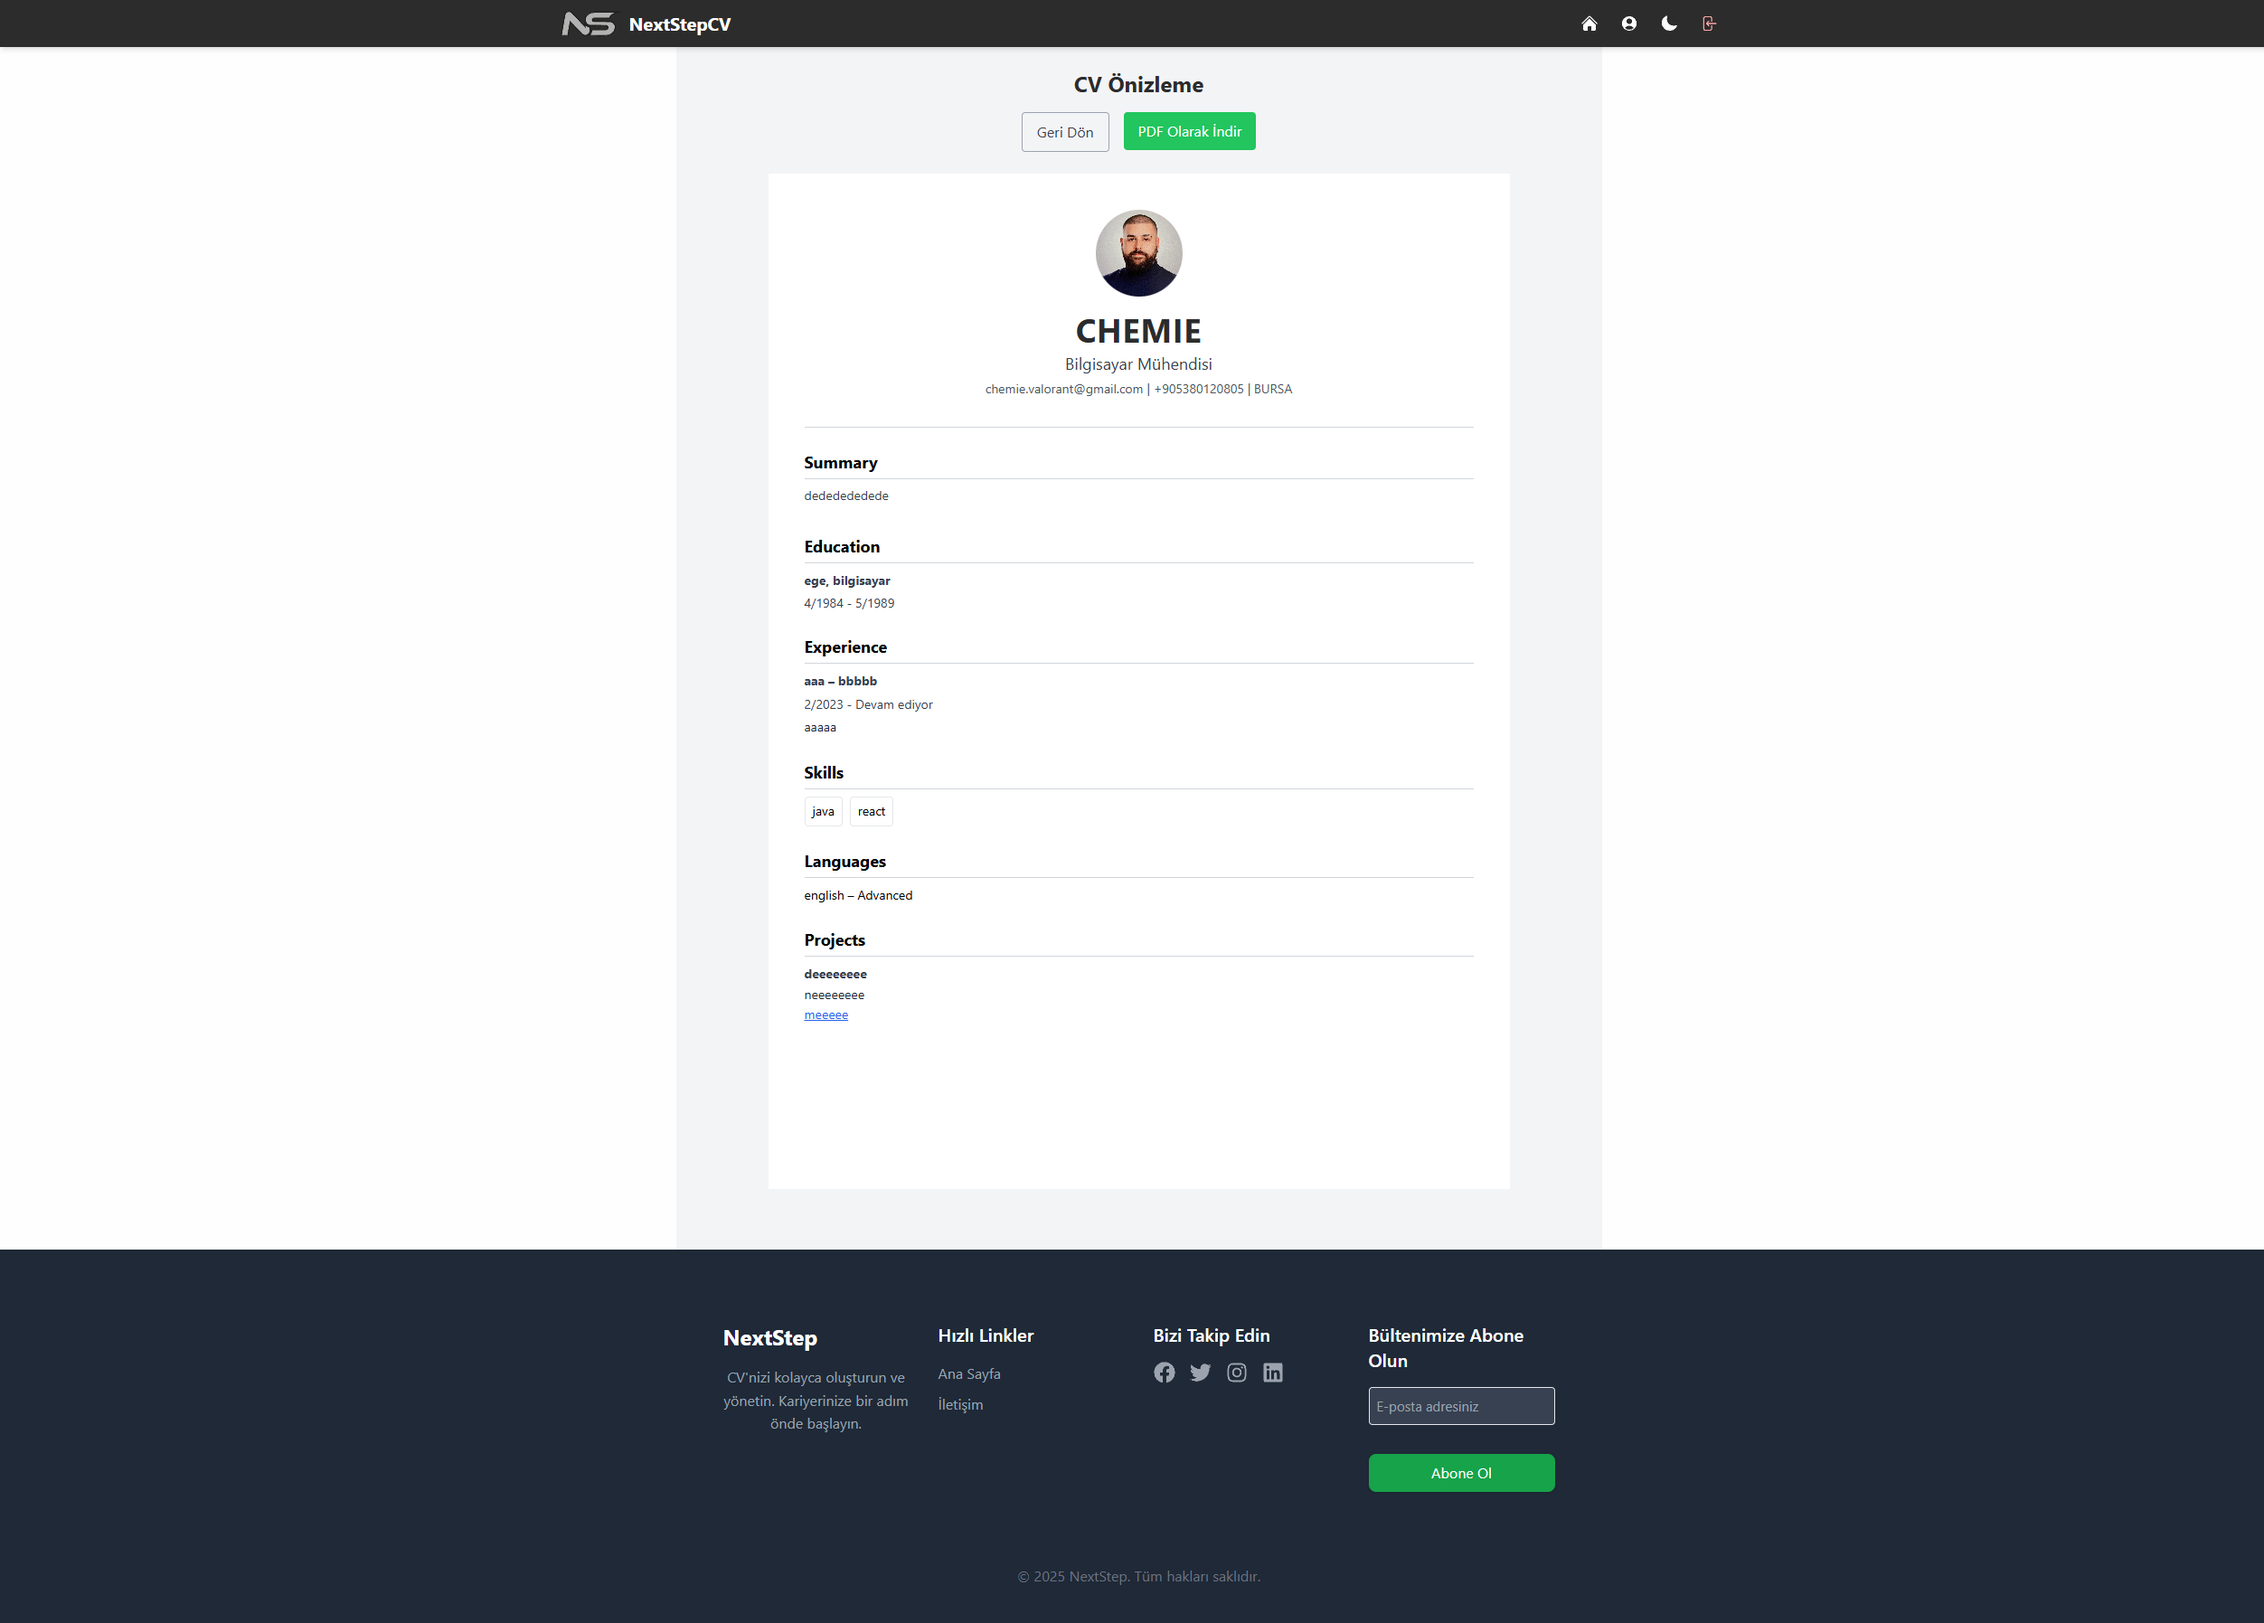
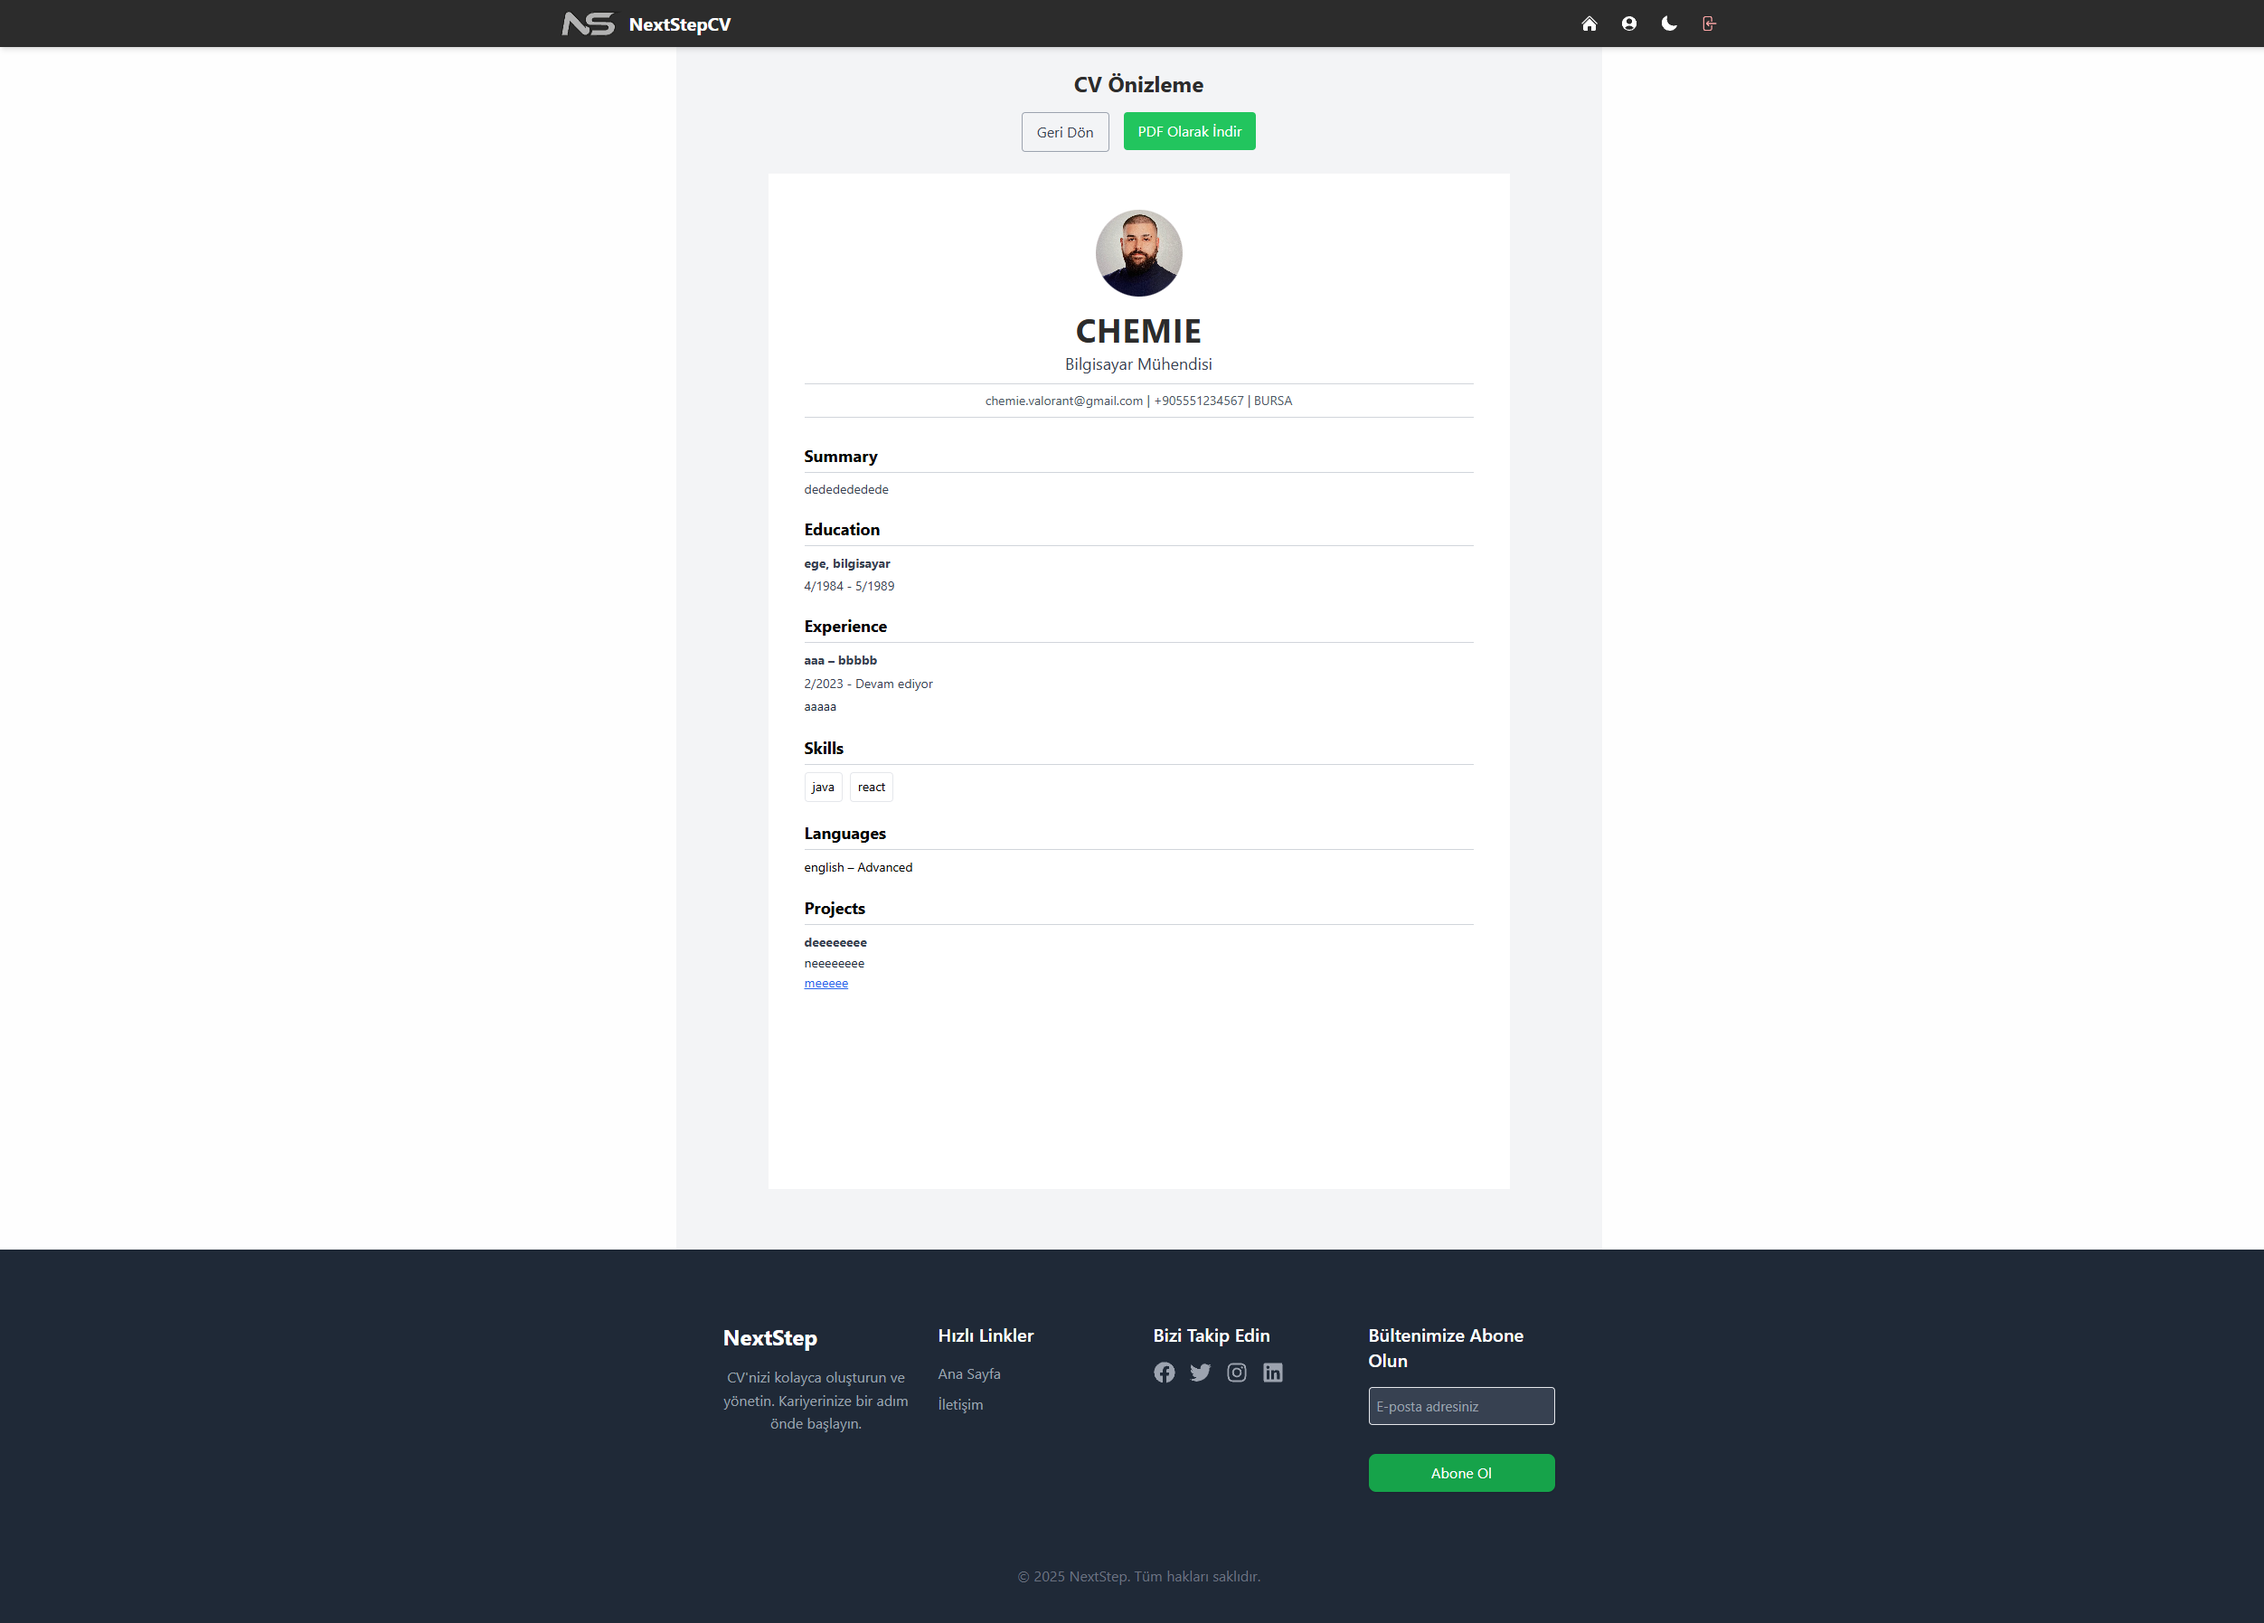
template simple ui update and readme update

Changed region(s): [[0.3427, 0.2808, 0.405, 0.624], [0.4361, 0.2184, 0.5607, 0.2496]]

diff --git a/src/components/templates/TemplateSimple.jsx b/src/components/templates/TemplateSimple.jsx
@@ -17,23 +17,24 @@ const TemplateSimple = forwardRef(({ data }, ref) => {
       <div className="text-center mb-7">
         <h1 className="text-4xl font-bold tracking-wide mb-1 uppercase ">{data.name}</h1>
         <p className="text-lg text-gray-700 mb-1">{data.title}</p>
-        <p className="text-gray-600 text-sm">
+        <hr className="border-t border-gray-300 my-2" />
+        <p className="text-gray-600 text-sm mb-0">
           {data.email} | {data.phone} | {data.city}
         </p>
+        <hr className="border-t border-gray-300 my-2" />
       </div>
-      <hr className="border-t border-gray-300 my-6" />
 
       {/* Summary */}
       {data.summary && (
-        <div className="mb-6">
+        <div className="mb-5">
           <h2 className="font-bold text-lg border-b border-gray-300 pb-1 mb-2 text-left">Summary</h2>
-          <p className="text-sm text-left text-gray-700">{data.summary}</p>
+          <p className="text-sm text-left text-gray-700 mb-4">{data.summary}</p>
         </div>
       )}
 
       {/* Education */}
       {data.education?.length > 0 && (
-        <div className="mb-6">
+        <div className="mb-5">
           <h2 className="font-bold text-lg border-b border-gray-300 pb-1 mb-2">Education</h2>
           {data.education.map((edu, idx) => (
             <div key={idx} className="mb-2">
@@ -50,7 +51,7 @@ const TemplateSimple = forwardRef(({ data }, ref) => {
 
       {/* Experience */}
       {data.experience?.length > 0 && (
-        <div className="mb-6">
+        <div className="mb-5">
           <h2 className="font-bold text-lg border-b border-gray-300 pb-1 mb-2">Experience</h2>
           {data.experience.map((exp, idx) => (
             <div key={idx} className="mb-2">
@@ -68,7 +69,7 @@ const TemplateSimple = forwardRef(({ data }, ref) => {
 
       {/* Skills */}
       {data.skills?.length > 0 && (
-        <div className="mb-6">
+        <div className="mb-5">
           <h2 className="font-bold text-lg border-b border-gray-300 pb-1 mb-2">Skills</h2>
           <ul className="flex flex-wrap gap-2">
             {data.skills.map((skill, idx) => (
@@ -82,7 +83,7 @@ const TemplateSimple = forwardRef(({ data }, ref) => {
 
       {/* Languages */}
       {data.languages?.length > 0 && (
-        <div className="mb-6">
+        <div className="mb-5">
           <h2 className="font-bold text-lg border-b border-gray-300 pb-1 mb-2">Languages</h2>
           <ul>
             {data.languages.map((lang, idx) => (
@@ -96,7 +97,7 @@ const TemplateSimple = forwardRef(({ data }, ref) => {
 
       {/* Projects */}
       {data.projects?.length > 0 && (
-        <div>
+        <div className="mb-5">
           <h2 className="font-bold text-lg border-b border-gray-300 pb-1 mb-2">Projects</h2>
           {data.projects.map((p, i) => (
             <div key={i} className="mb-2">

diff --git a/src/components/pdf/CvPdf.jsx b/src/components/pdf/CvPdf.jsx
@@ -35,7 +35,7 @@ const styles = StyleSheet.create({
   separator: {
     borderBottomWidth: 1,
     borderBottomColor: "#ccc",
-    marginBottom: 14,
+    marginBottom: 7,
   },
   name: {
     fontSize: 20,
@@ -118,12 +118,12 @@ const CvPDF = ({ formData }) => {
         <View style={styles.header}>
           <Text style={styles.name}>{formData.name || "Ad Soyad"}</Text>
           <Text style={styles.title}>{formData.title || "Pozisyon"}</Text>
+          <View style={styles.separator} />
           <Text style={styles.contact}>
             {formData.email || "email@example.com"} | {formData.phone || "000"} | {formData.city || "City"}
           </Text>
+          <View style={styles.separator} />
         </View>
-
-        <View style={styles.separator} />
 
         {/* SUMMARY */}
         {formData.summary && (
